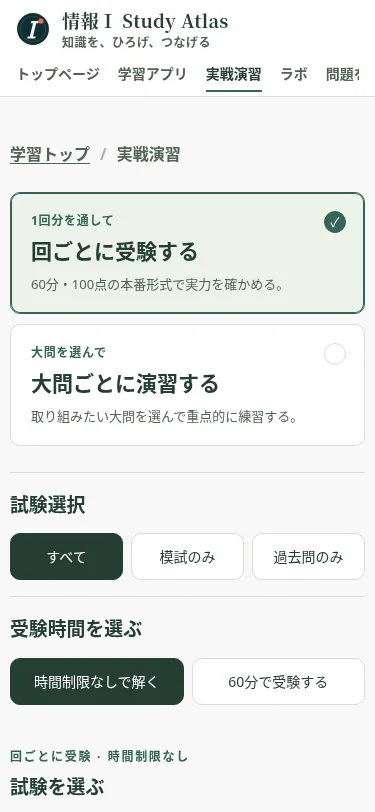
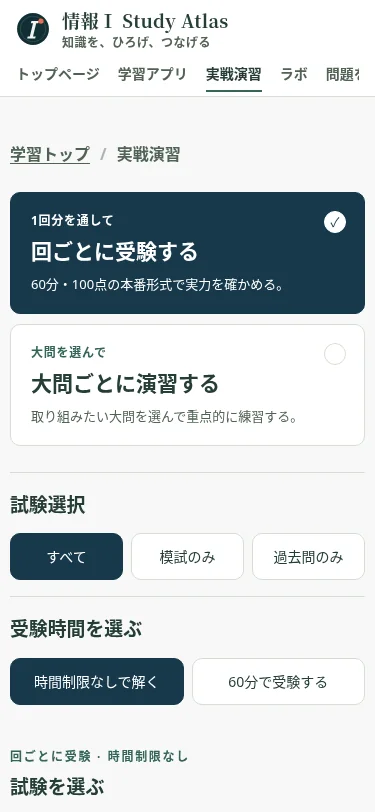
選択中の操作を濃紺にしトップのサブ教材を簡略化

diff --git a/lab/question-map/question-map.css b/lab/question-map/question-map.css
@@ -7,9 +7,13 @@
 .map-exhibit button { cursor: pointer; color: var(--ink); font: inherit; }
 .map-layer-controls { padding: 9px 20px; display: flex; justify-content: flex-end; gap: 6px; align-items: center; border-top: 1px solid var(--line); font-size: .77rem; }
 .map-layer-controls button { padding: 7px 16px; min-height: 40px; background: transparent; border: 1px solid transparent; border-radius: 7px; white-space: nowrap; }
-.map-layer-controls button[aria-pressed="true"] { color: var(--white); background: var(--ink); border-color: var(--ink); }
+.map-layer-controls button[aria-pressed="true"] {
+  background: var(--atlas-selected, #18394b);
+  color: #fff;
+  border-color: var(--atlas-selected, #18394b);
+}
 .map-layer-controls #layers-mode { margin-left: 8px; border-color: var(--line); }
-.map-layer-controls #layers-mode[aria-pressed="true"] { border-color: var(--ink); }
+.map-layer-controls #layers-mode[aria-pressed="true"] { border-color: var(--atlas-selected); }
 
 /* ブラウザの全画面APIを使わず、地図だけを表示領域いっぱいに広げる。 */
 .map-layer-controls #map-fullscreen { margin-right: auto; border-color: var(--line); }
@@ -49,7 +53,11 @@ html.question-map-expanded { overflow: hidden; }
 .heat-range { display: inline-flex; flex-shrink: 0; border: 1px solid var(--line); border-radius: 6px; overflow: hidden; font-size: .68rem; }
 .heat-range button { padding: 4px 8px; min-height: 30px; line-height: 1.3; white-space: nowrap; border: 0; background: transparent; }
 .heat-range button + button { border-left: 1px solid var(--line); }
-.heat-range button[aria-pressed="true"] { background: var(--ink); color: var(--white); }
+.heat-range button[aria-pressed="true"] {
+  background: var(--atlas-selected, #18394b);
+  color: #fff;
+  border-color: var(--atlas-selected, #18394b);
+}
 .history-summary { margin: 0; padding: 0 20px 13px; font-size: .73rem; color: var(--ink-soft); }
 .map-exhibit .map-card { position: absolute; top: 0; left: 0; display: -webkit-box; -webkit-box-orient: vertical; -webkit-line-clamp: var(--card-lines, 7); overflow: hidden; padding: var(--card-padding, 12px); border: 1px solid rgb(145 165 152 / 65%); background: rgb(255 255 255 / var(--card-alpha, .84)); border-radius: 6px; box-shadow: 0 3px 12px rgb(16 47 53 / 8%); color: #17201c; font-weight: 500; line-height: var(--card-leading, 1.6); text-align: left; white-space: pre-wrap; overflow-wrap: anywhere; pointer-events: auto; touch-action: none; cursor: grab; transform-origin: 0 0; transition: opacity .22s linear; will-change: transform, opacity; }
 .map-exhibit .map-card.is-selected { border-color: var(--mint-strong); }
@@ -86,7 +94,11 @@ html.question-detail-open { overflow: hidden; }
 .card-practice { display: inline-block; padding: 10px 0; margin-top: 10px; font-size: .84rem; font-weight: 700; color: var(--atlas-action); text-underline-offset: 4px; }
 .score-source { display: flex; align-items: center; flex-wrap: wrap; gap: 8px; padding: 0 20px 10px; font-size: .75rem; }
 .score-source button { padding: 7px 12px; min-height: 40px; border: 1px solid var(--line); border-radius: 7px; background: transparent; }
-.score-source button[aria-pressed="true"] { background: var(--ink); color: var(--white); border-color: var(--ink); }
+.score-source button[aria-pressed="true"] {
+  background: var(--atlas-selected, #18394b);
+  color: #fff;
+  border-color: var(--atlas-selected, #18394b);
+}
 .score-source .region-practice { margin-left: 16px; border-color: var(--atlas-action); color: var(--atlas-action); font-weight: 600; white-space: nowrap; }
 .score-source .region-practice:disabled { opacity: .45; cursor: default; }
 .region-dialog { box-sizing: border-box; width: min(560px, calc(100% - 24px)); max-height: 88svh; padding: 22px; overflow: auto; overscroll-behavior: contain; border: 1px solid var(--line); border-radius: 16px; background: var(--white); color: var(--ink); }

diff --git a/mock-exams/app.css b/mock-exams/app.css
@@ -191,17 +191,18 @@ button:disabled {
   background: var(--mock-paper);
 }
 .mode-choice[aria-pressed="true"] {
-  border-color: var(--mock-accent);
-  box-shadow: inset 0 0 0 1px var(--mock-accent);
-  background: var(--atlas-soft, #edf2e9);
+  background: var(--atlas-selected, #18394b);
+  color: #fff;
+  border-color: var(--atlas-selected, #18394b);
 }
+.mode-choice[aria-pressed="true"] > span { color: inherit; }
 .mode-choice[aria-pressed="true"]::after {
   content: "✓";
   display: grid;
   place-content: center;
-  color: white;
-  background: var(--mock-accent);
-  border-color: var(--mock-accent);
+  color: var(--atlas-selected, #18394b);
+  background: white;
+  border-color: white;
   font-size: 13px;
 }
 .section-picker {
@@ -228,9 +229,9 @@ button:disabled {
   margin: 0 0 .65rem;
 }
 .section-picker [aria-pressed="true"] {
-  background: var(--mock-ink);
-  color: white;
-  border-color: var(--mock-ink);
+  background: var(--atlas-selected, #18394b);
+  color: #fff;
+  border-color: var(--atlas-selected, #18394b);
 }
 .catalog-list-heading {
   display: flex;
@@ -1247,8 +1248,9 @@ body[data-view="workspace"] > .preview-banner {
   margin: 24px 0 18px;
 }
 .history-filters [aria-pressed="true"] {
-  background: var(--mock-ink);
-  color: white;
+  background: var(--atlas-selected, #18394b);
+  color: #fff;
+  border-color: var(--atlas-selected, #18394b);
 }
 .history-table {
   width: 100%;
@@ -1463,8 +1465,9 @@ button.filter-chip {
   font-size: 13px;
 }
 .column-sort-actions [aria-pressed="true"] {
-  background: var(--atlas-soft, #edf2e9);
-  border-color: var(--mock-accent);
+  background: var(--atlas-selected, #18394b);
+  color: #fff;
+  border-color: var(--atlas-selected, #18394b);
 }
 .column-range {
   margin: 12px 0;

diff --git a/assets/term-page.css b/assets/term-page.css
@@ -303,10 +303,19 @@
 
 .term-controls fieldset:first-child { display: grid; grid-template-columns: 1fr 1fr; gap: 4px; padding: 4px; border-radius: 12px; background: var(--paper-deep); margin-bottom: 22px; }
 .term-controls fieldset:first-child label { justify-content: center; border: 0; border-radius: 9px; font-weight: 700; padding: 10px 8px; }
-.term-controls fieldset:first-child label:has(:checked) { background: var(--ink); color: var(--white); box-shadow: 0 2px 5px rgb(16 47 53 / 12%); }
+.term-controls fieldset:first-child label:has(:checked) {
+  background: var(--atlas-selected, #18394b);
+  color: #fff;
+  border-color: var(--atlas-selected, #18394b);
+}
 .term-controls fieldset:nth-child(2) { gap: 8px; }
 .term-controls fieldset:nth-child(2) label { padding: 5px 16px; border: 1px solid var(--line); border-radius: 24px; color: var(--ink-soft); }
-.term-controls fieldset:nth-child(2) label:has(:checked) { border-color: var(--ink); color: var(--ink); background: var(--white); font-weight: 700; }
+.term-controls fieldset:nth-child(2) label:has(:checked) {
+  background: var(--atlas-selected, #18394b);
+  color: #fff;
+  border-color: var(--atlas-selected, #18394b);
+  font-weight: 700;
+}
 .term-controls input[type="radio"] { position: absolute; width: 1px; height: 1px; opacity: 0; }
 .term-controls label:has(input:focus-visible) { outline: 3px solid var(--blue-strong); outline-offset: 3px; }
 .term-controls label:hover { background: var(--white); }

diff --git a/lab/packet-routing/packet-routing.css b/lab/packet-routing/packet-routing.css
@@ -9,10 +9,13 @@
 .routing-lab button:hover { border-color: var(--atlas-accent); background: var(--atlas-soft); }
 .routing-lab button:disabled { opacity: .5; cursor: default; }
 .routing-lab button.primary { background: var(--ink); color: var(--white); border-color: var(--ink); }
-.routing-lab button.primary:hover { background: var(--atlas-accent); }
+.routing-lab button.primary:hover:not([aria-pressed="true"]) { background: var(--atlas-accent); }
 .routing-lab button.danger { color: var(--coral-strong); border-color: #dfb3a9; background: #fff2ed; }
-.routing-lab button[aria-pressed="true"] { background: var(--atlas-soft); border-color: var(--atlas-accent); color: var(--atlas-ink); }
-.routing-lab button.primary[aria-pressed="true"] { background: var(--atlas-accent); color: white; }
+.routing-lab button[aria-pressed="true"] {
+  background: var(--atlas-selected, #18394b);
+  color: #fff;
+  border-color: var(--atlas-selected, #18394b);
+}
 .routing-lab select, .routing-lab input:not([type="checkbox"]) { min-width: 0; width: 100%; min-height: 40px; padding: 6px 9px; border: 1px solid var(--line); border-radius: 6px; background: var(--white); font-size: .82rem; }
 .routing-lab :is(button, select, input, summary, a, svg):focus-visible { outline: 3px solid var(--atlas-accent); outline-offset: 3px; }
 .routing-lab input[type="checkbox"] { accent-color: var(--atlas-accent); width: 17px; height: 17px; }

diff --git a/assets/home.css b/assets/home.css
@@ -106,6 +106,17 @@
 .icon-help { --icon-position: 90%; }
 .icon-book { --icon-position: 100%; }
 
+.home-misc-grid .home-action-card {
+  padding: .875rem 1rem;
+  border-inline-start: 1px solid var(--atlas-line);
+}
+.home-misc-grid h3 { font-size: 1rem; }
+.home-misc-grid p {
+  margin: .25rem 0 0 2.15rem;
+  font-size: .875rem;
+  line-height: 1.6;
+}
+
 .home-other-grid { display: flex; flex-wrap: wrap; gap: 10px; }
 .home-other-card {
   display: inline-flex;
@@ -137,5 +148,6 @@
   .hero-lead { margin-top: .9rem; }
   .hero-visual { display: none; }
   .home-action-grid, .home-misc-grid { grid-template-columns: 1fr; gap: .65rem; }
+  .home-misc-grid p { display: none; }
   .home-other-grid { gap: .5rem; }
 }

diff --git a/assets/site.css b/assets/site.css
@@ -258,7 +258,11 @@ ins.adsbygoogle[data-ad-status="unfilled"] { display: none !important; }
 .facet-link span { overflow-wrap: anywhere; }
 .facet-link small { flex: 0 0 auto; color: var(--ink-soft); font-size: .61rem; }
 .facet-link:hover { border-color: var(--atlas-accent); color: var(--ink); }
-.facet-link.is-selected { border-color: var(--ink); color: var(--white); background: var(--ink); }
+.facet-link.is-selected {
+  background: var(--atlas-selected, #18394b);
+  color: #fff;
+  border-color: var(--atlas-selected, #18394b);
+}
 .facet-link.is-selected small { color: rgb(255 255 255 / 75%); }
 .facet-link[hidden] { display: none; }
 .filter-results { margin-top: 48px; scroll-margin-top: 18px; }

diff --git a/lab/thinking-tools/thinking-tools.css b/lab/thinking-tools/thinking-tools.css
@@ -107,8 +107,9 @@ dialog :focus-visible {
   padding: 10px 18px;
 }
 .mode-switch button[aria-pressed="true"] {
-  background: var(--ink);
-  color: var(--white);
+  background: var(--atlas-selected, #18394b);
+  color: #fff;
+  border-color: var(--atlas-selected, #18394b);
 }
 .mode-switch small {
   display: block;
@@ -1768,9 +1769,9 @@ input[type="checkbox"] {
   white-space: nowrap;
 }
 .thinking-shell .preset-button[aria-pressed="true"] {
-  background: #fff6e5;
-  border-color: #b99154;
-  color: #6a4821;
+  background: var(--atlas-selected, #18394b);
+  color: #fff;
+  border-color: var(--atlas-selected, #18394b);
 }
 .thinking-shell .preset-button:disabled {
   opacity: 0.6;

diff --git a/assets/atlas-tokens.css b/assets/atlas-tokens.css
@@ -8,6 +8,7 @@
   --atlas-blue: #326596;
   --atlas-accent: #356459;
   --atlas-terracotta: #b94732;
+  --atlas-selected: #18394b;
   --atlas-action: #306653;
   --atlas-action-hover: #234e40;
   --atlas-control: #526456;

diff --git a/docs/design-review/README.md b/docs/design-review/README.md
@@ -4,7 +4,7 @@
 
 | 領域 | 主な変更 |
 | --- | --- |
-| トップ | キャッチコピーは公開版と同じ3行・赤茶で中央揃え。教材の入口は白いカードに揃え、その他は公開版と同じ幅210px。PC・タブレットでは従来の色付き円形図を表示。680px以下では図を省いて教材への導線を優先。主要教材3件、サブ教材、案内の順で入口を整理 |
+| トップ | キャッチコピーは公開版と同じ3行・赤茶で中央揃え。主要教材は左端に深緑の線を入れ、サブ教材は薄い枠の小さなカードにする。その他は公開版と同じ幅210px。PC・タブレットでは従来の色付き円形図を表示。680px以下では図を省いて教材への導線を優先。主要教材3件、サブ教材、案内の順で入口を整理 |
 | 共通UI・解説動画・書籍・案内 | 色・余白の基準、ヘッダー、現在地、フォーカス、本文と一覧の文字サイズを共通化 |
 | 用語一覧・用語記事 | 検索入力、表示条件、記事見出しを統一。お気に入り・既読・ハイライトの各状態を維持 |
 | 講義ノート | 独自ヘッダー・フッターを共通CSSへ移行。白地の表題、章の余白、用語への導線を整理 |

diff --git a/docs/DESIGN.md b/docs/DESIGN.md
@@ -11,6 +11,7 @@
 | 補足背景 | --atlas-soft | #EDF2E9 |
 | 見出し・本文 | --atlas-ink | #263E35 |
 | 補助文 | --atlas-muted | #526354 |
+| 選択中のボタン | --atlas-selected | #18394B |
 | 開始・再開・再挑戦 | --atlas-action | #306653 |
 | 次へ・採点などの操作 | --atlas-control | #526456 |
 | リンク・フォーカス | --atlas-accent | #356459 |
